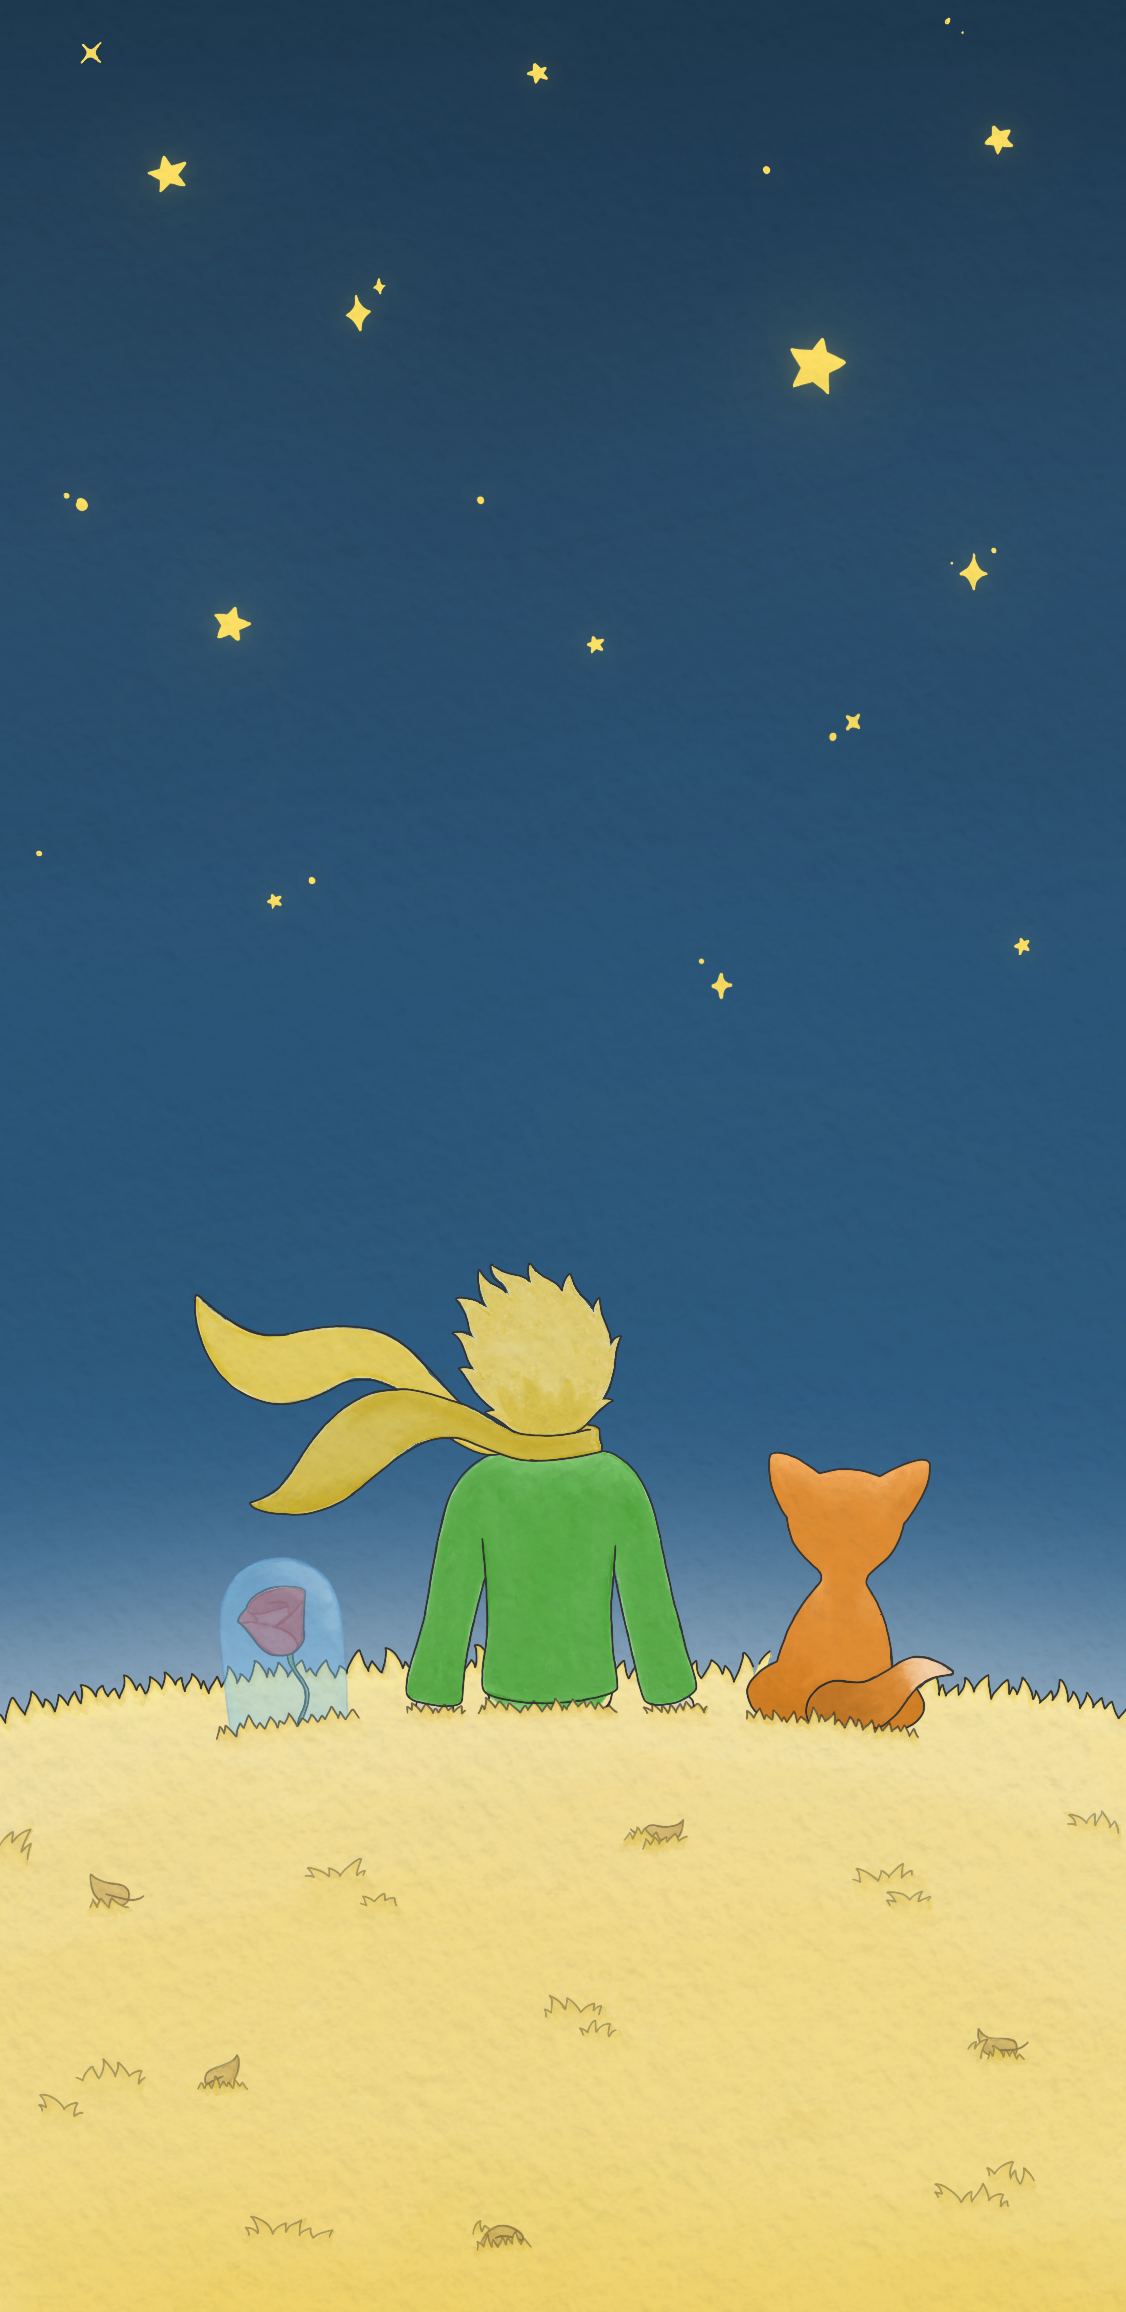
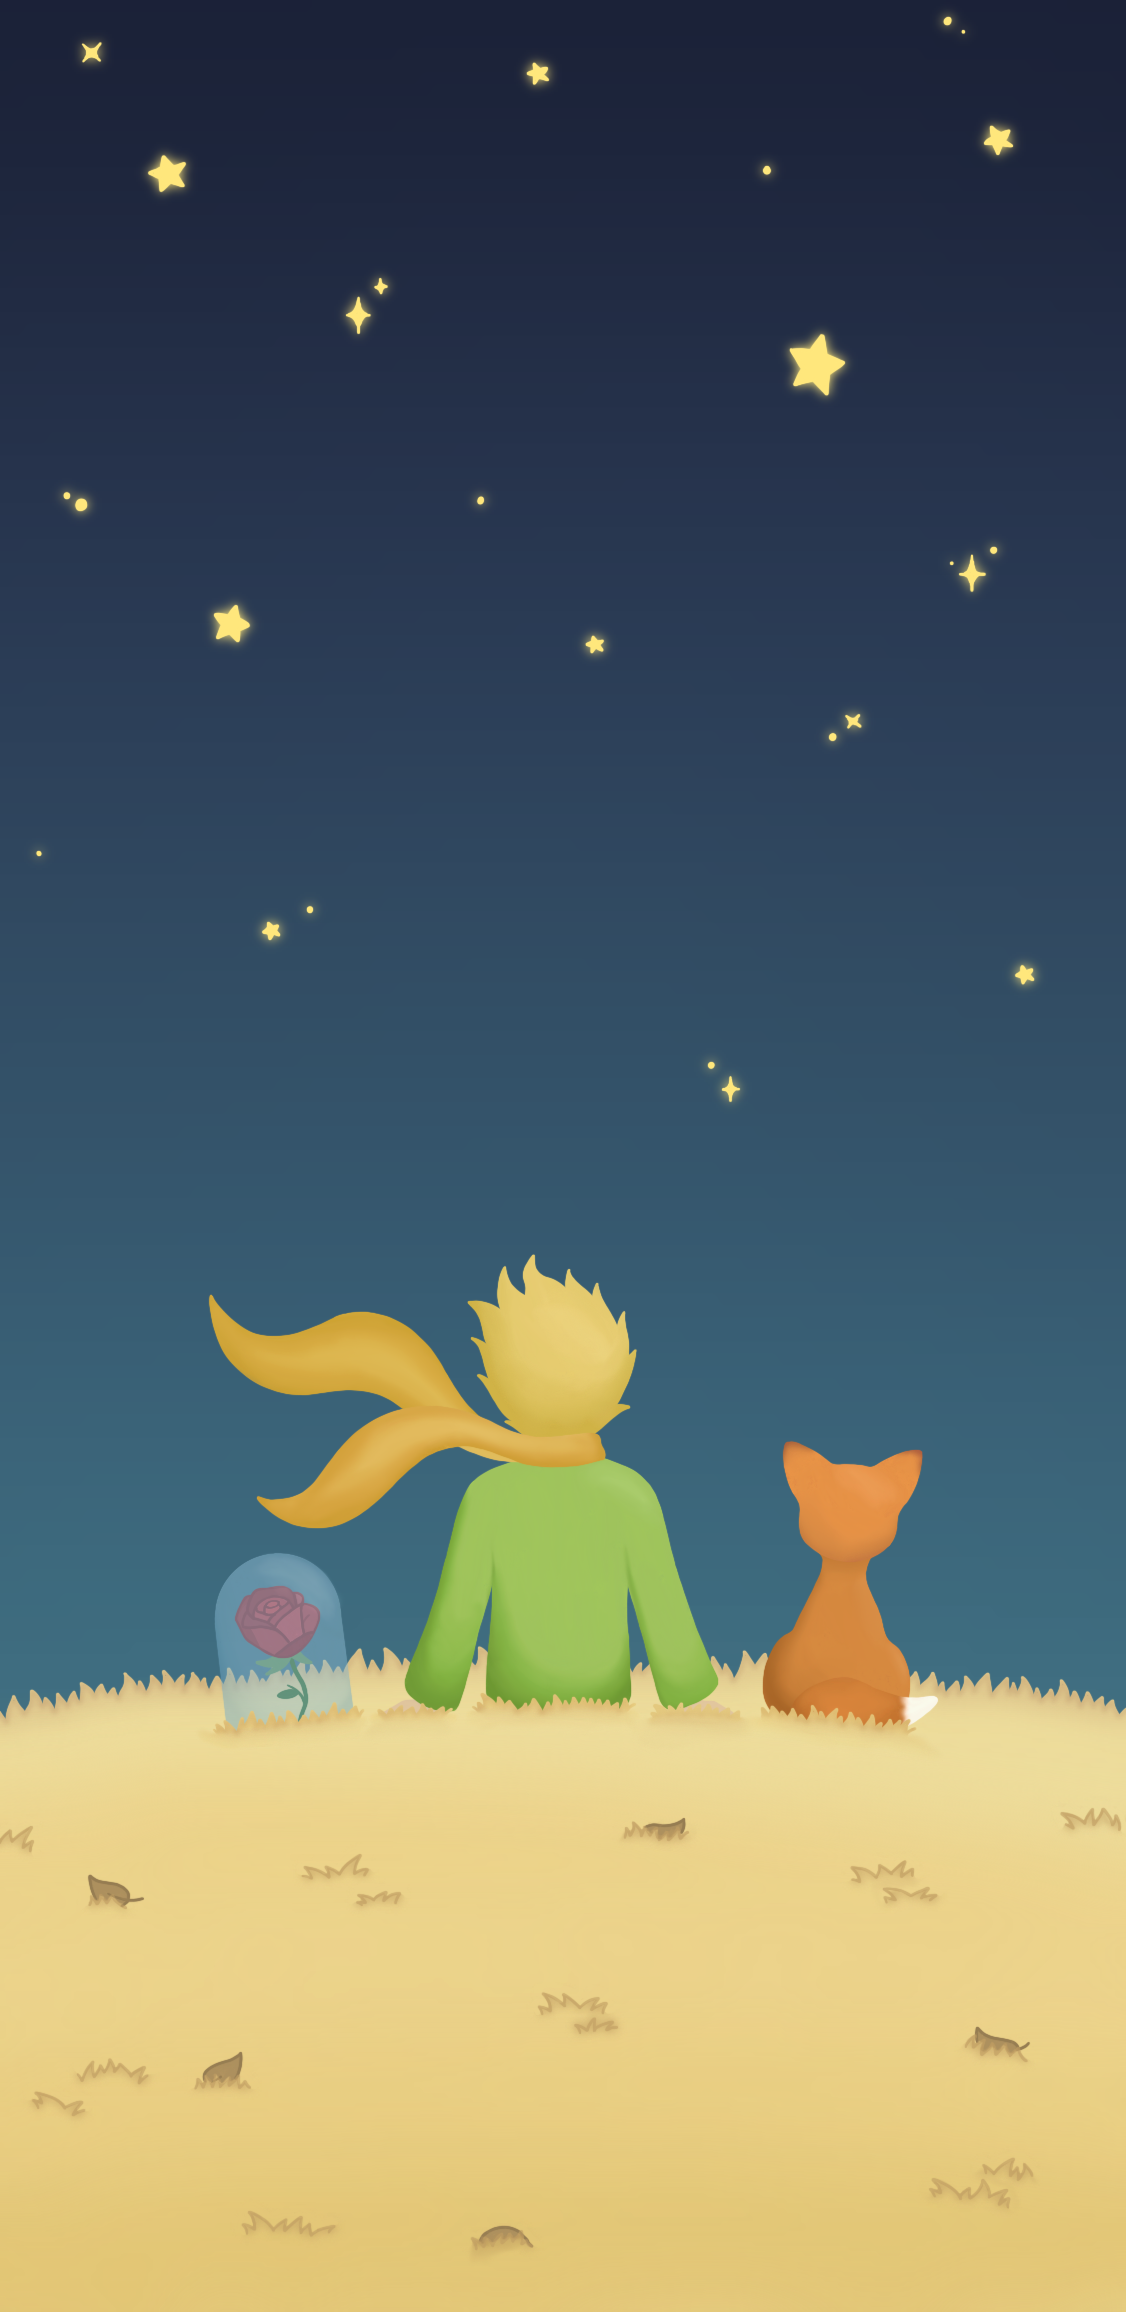
minor updates

diff --git a/_includes/widgets/projects_item.html b/_includes/widgets/projects_item.html
@@ -12,7 +12,7 @@
             <h5 class="mt-0 mb-1 font-weight-normal">{{ item.title }}</h5>
             <p class="mt-0 mb-0 small">{% include widgets/author_list.html authors=item.authors %}</p>
             <p class="mt-0 mb-0 small">{{item.pub_pre}}<i>{{ item.pub }}</i>{{ item.pub_post }} {{ item.pub_date }} {{ item.pub_last }}</p>
-            <p class="mt-0 mb-0 small text-muted">{{ item.abstract }}</p>
+            <p class="mt-0 mb-1 small text-muted">{{ item.abstract }}</p>
             
             <p class="small pb-0 mb-0 lh-125 text-muted abstract-links">
                 {% for link in item.links %}
@@ -36,7 +36,7 @@
                 <h5 class="mt-0 mb-1 font-weight-normal">{{ item.title }}</h5>
                 <p class="mt-0 mb-0 small">{% include widgets/author_list.html authors=item.authors %}</p>
                 <p class="mt-0 mb-0 small">{{item.pub_pre}}<i>{{ item.pub }}</i>{{ item.pub_post }} {{ item.pub_date }} {{ item.pub_last }}</p>
-                <p class="mt-0 mb-0 small text-muted">{{ item.abstract }}</p>
+                <p class="mt-0 mb-1 small text-muted">{{ item.abstract }}</p>
                 
                 <p class="small pb-0 mb-0 lh-125 text-muted abstract-links">
                     {% for link in item.links %}

diff --git a/_projects/2026/2026-bibliomaniacs.md b/_projects/2026/2026-bibliomaniacs.md
@@ -1,0 +1,15 @@
+---
+title:          "Bibliomaniacs"
+date:           2026-8-29 00:01:00 +0800
+selected:       false
+
+abstract: >-
+  Bibliomaniacs is a book review web application that enhances Ridgewood Public Library’s volunteer review service by streamlining personal information entry, organizing volunteer hour tracking, and utilizing user responses to provide informed recommendations. The main features of the app consists of a submission interface for volunteers requiring login, a volunteer dashboard where users can report/track their hours as well as generate automated certificates for cumulative volunteer hours, a reviewer/admin interface for reviewing and approving submissions, and a Mistral AI-powered recommendation feature (public-facing) displaying reviews and popular books, introducing greater variety and helping patrons discover new titles. 
+
+cover: /assets/images/covers/Bibliomaniacs_HScreen.png
+authors:
+  - Bomie Jun
+links: 
+  Product: https://bibliomaniacs.vercel.app/
+  Github: https://github.com/rgwdteens/Bibliomaniacs
+---

diff --git a/_artwork/Playlist Covers/cafe_chill.md b/_artwork/Playlist Covers/cafe_chill.md
@@ -1,8 +1,8 @@
 ---
-title:          "café vibes"
+title:          "calm"
 date:           2025-11-04 00:01:00 +0800
 selected:       false
 
 order: 4
-cover: /assets/images/artwork/playlist_covers/café_chill.png
+cover: /assets/images/artwork/playlist_covers/calm.png
 ---

diff --git a/_artwork/Wallpapers/les_apprivoises.md b/_artwork/Wallpapers/les_apprivoises.md
@@ -4,5 +4,5 @@ date:           2025-07-27 00:01:00 +0800
 selected:       false
 
 order: 1
-cover: /assets/images/artwork/wallpapers/tlp1.png
+cover: /assets/images/artwork/wallpapers/tlpv1-3.png
 ---
